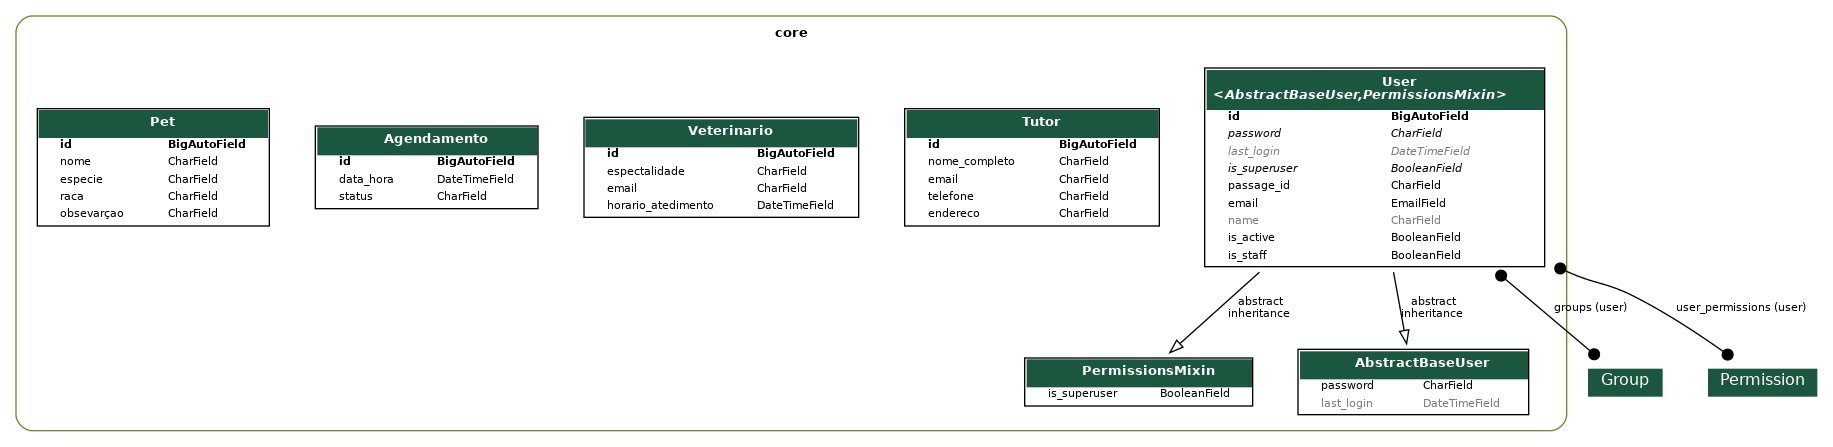
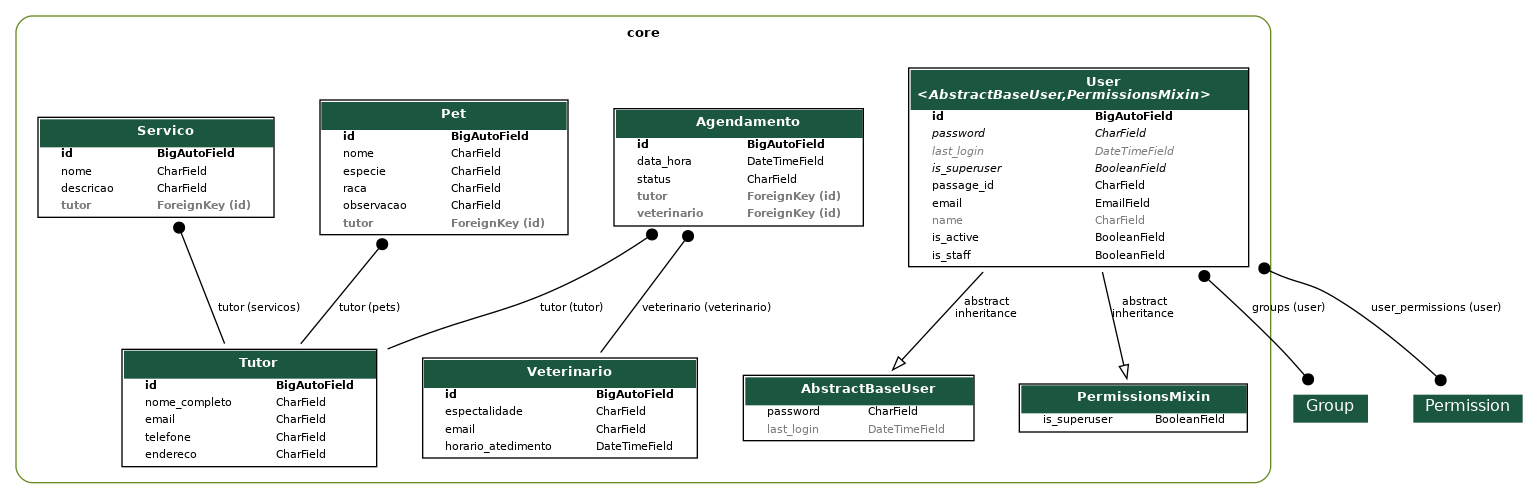
Feat: Fazendo as chaves estrangeiras

diff --git a/core/migrations/0006_rename_obsevarçao_pet_observacao_agendamento_tutor_and_more.py b/core/migrations/0006_rename_obsevarçao_pet_observacao_agendamento_tutor_and_more.py
@@ -1,0 +1,43 @@
+# Generated by Django 5.1.7 on 2025-08-12 17:47
+
+import django.db.models.deletion
+from django.db import migrations, models
+
+
+class Migration(migrations.Migration):
+
+    dependencies = [
+        ('core', '0005_agendamento_pet_tutor_veterinario'),
+    ]
+
+    operations = [
+        migrations.RenameField(
+            model_name='pet',
+            old_name='obsevarçao',
+            new_name='observacao',
+        ),
+        migrations.AddField(
+            model_name='agendamento',
+            name='tutor',
+            field=models.ForeignKey(blank=True, null=True, on_delete=django.db.models.deletion.PROTECT, related_name='tutor', to='core.tutor'),
+        ),
+        migrations.AddField(
+            model_name='agendamento',
+            name='veterinario',
+            field=models.ForeignKey(blank=True, null=True, on_delete=django.db.models.deletion.PROTECT, related_name='veterinario', to='core.veterinario'),
+        ),
+        migrations.AddField(
+            model_name='pet',
+            name='tutor',
+            field=models.ForeignKey(blank=True, null=True, on_delete=django.db.models.deletion.PROTECT, related_name='pets', to='core.tutor'),
+        ),
+        migrations.CreateModel(
+            name='Servico',
+            fields=[
+                ('id', models.BigAutoField(auto_created=True, primary_key=True, serialize=False, verbose_name='ID')),
+                ('nome', models.CharField(max_length=45)),
+                ('descricao', models.CharField(max_length=255)),
+                ('tutor', models.ForeignKey(blank=True, null=True, on_delete=django.db.models.deletion.PROTECT, related_name='servicos', to='core.tutor')),
+            ],
+        ),
+    ]

diff --git a/core/models/agendamento.py b/core/models/agendamento.py
@@ -1,14 +1,11 @@
 from django.db import models
-
-from core.models import veterinario
-
+from core.models import Veterinario, Tutor
 
 class Agendamento(models.Model):
     data_hora = models.DateTimeField()
     status = models.CharField(max_length=45)
-    tutor = models.ForeignKey(on_delete=models.PROTECT, related_name='tutor', null=True, blank=True)
-    veterinario = models.ForeignKey(on_delete=models.PROTECT, related_name='veterinario', null=True, blank=True)
+    tutor = models.ForeignKey(Tutor, on_delete=models.PROTECT, related_name='tutor', null=True, blank=True)
+    veterinario = models.ForeignKey(Veterinario, on_delete=models.PROTECT, related_name='veterinario', null=True, blank=True)
 
-
-def __str__(self):
-    return f'({self.id}) {self.data_hora} ({self.status})'
+    def __str__(self):
+        return f'({self.id}) {self.data_hora} ({self.status})'

diff --git a/core/models/pet.py b/core/models/pet.py
@@ -1,14 +1,12 @@
 from django.db import models
 
-from core.models import tutor
-
 
 class Pet(models.Model):
     nome = models.CharField(max_length=45)
     especie = models.CharField(max_length=45)
     raca = models.CharField(max_length=45)
-    obsevarçao = models.CharField(max_length=255)
-    tutor = models.ForeignKey(on_delete=models.PROTECT, related_name='tutor', null=True, blank=True)
+    observacao = models.CharField(max_length=255)
+    tutor = models.ForeignKey('core.Tutor', on_delete=models.PROTECT, related_name='pets', null=True, blank=True)
 
     def __str__(self):
-        return f'({self.id}) {self.nome} ({self.raca}) ({self.especie}) ({self.obsevarçao})'
+        return f'({self.id}) {self.nome} ({self.raca}) ({self.especie}) ({self.observacao})'

diff --git a/core/models/servico.py b/core/models/servico.py
@@ -1,9 +1,10 @@
 from django.db import models
 
+
 class Servico(models.Model):
     nome = models.CharField(max_length=45)
     descricao = models.CharField(max_length=255)
-    tutor = models.ForeignKey(on_delete=models.PROTECT, related_name='tutor', null=True, blank=True)
+    tutor = models.ForeignKey('core.Tutor', on_delete=models.PROTECT, related_name='servicos', null=True, blank=True)
 
     def __str__(self):
         return f'({self.id}) {self.nome} ({self.descricao})'

diff --git a/core/admin.py b/core/admin.py
@@ -56,3 +56,4 @@ admin.site.register(models.Agendamento)
 admin.site.register(models.Pet)
 admin.site.register(models.Tutor)
 admin.site.register(models.Veterinario)
+admin.site.register(models.Servico)
